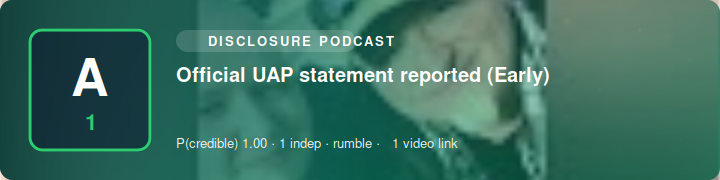
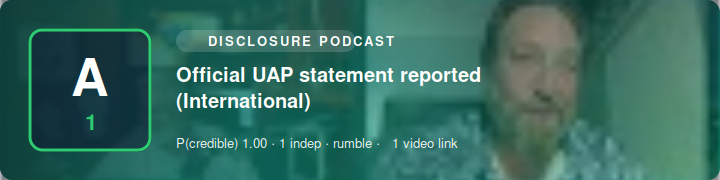
SITREP 2026-08-14 12:00 UTC

diff --git a/index.html b/index.html
@@ -1,1 +1,1 @@
-<!doctype html><meta charset=utf-8><title>Science Bob News — SITREP</title><style>body{font:16px/1.5 system-ui,sans-serif;max-width:760px;margin:2rem auto;padding:0 1rem;color:#111}h1{font-size:1.5rem}h2{margin-top:1.6rem;border-bottom:1px solid #ddd;padding-bottom:.2rem}ul{list-style:none;padding:0}li{margin:.9rem 0}.hl{font-weight:600}.meta{color:#555;font-size:.85rem}.src{font-size:.85rem}.vid{font-size:.85rem;margin-top:.15rem}.card{display:block;max-width:100%;height:auto;border-radius:8px;margin:.4rem 0 .5rem}.upd{background:#fde68a;padding:0 .3rem;border-radius:.2rem;font-size:.75rem}.sub{color:#777;font-size:.85rem}footer{color:#777;font-size:.8rem;margin-top:2rem;border-top:1px solid #ddd;padding-top:.6rem}</style><h1>🛸 Science Bob News</h1><div class="sub">UAP / UFO / USO SITREP · updated 2026-08-14 11:50 UTC · automated</div><h2>Corroborated</h2><ul><li><img class="card" src="https://n4hy.github.io/sciencebobnews-site/card_c_1.svg" alt="" width="720" height="180"><div class="hl">UAP report</div><div class="meta">reliability <b>A1</b> · P(credible)=1.0 · 2 independent source(s) · mastodon</div><div class="src"><a href="https://mastodon.online/@KilleansRow/117086761570315232">@KilleansRow@mastodon.online</a> · <a href="https://mastodon.linkerror.com/@photronicarts/117085058232230276">@photronicarts@mastodon.linkerror.com</a></div></li></ul><h2>Developing / unconfirmed</h2><ul><li><img class="card" src="https://n4hy.github.io/sciencebobnews-site/card_d_1.svg" alt="" width="720" height="180"><div class="hl">UAP report (Early)</div><div class="meta">reliability <b>A1</b> · P(credible)=1.0 · 1 independent source(s) · rumble</div><div class="src"><a href="https://www.youtube.com/watch?v=IyTeV6kko5A">@podcast</a></div><div class="vid">📹 <a href="https://www.youtube.com/watch?v=IyTeV6kko5A">video</a></div></li><li><img class="card" src="https://n4hy.github.io/sciencebobnews-site/card_d_2.svg" alt="" width="720" height="180"><div class="hl">UAP report (McMinnville)</div><div class="meta">reliability <b>A1</b> · P(credible)=1.0 · 1 independent source(s) · rumble</div><div class="src"><a href="https://www.youtube.com/watch?v=7OT6uJ0yzVY">@podcast</a></div><div class="vid">📹 <a href="https://www.youtube.com/watch?v=7OT6uJ0yzVY">video</a></div></li><li><img class="card" src="https://n4hy.github.io/sciencebobnews-site/card_d_3.svg" alt="" width="720" height="180"><div class="hl">UAP report (Australia)</div><div class="meta">reliability <b>A1</b> · P(credible)=1.0 · 1 independent source(s) · rumble</div><div class="src"><a href="https://www.youtube.com/watch?v=ZegQhxJrJGo">@podcast</a></div><div class="vid">📹 <a href="https://www.youtube.com/watch?v=ZegQhxJrJGo">video</a></div></li><li><img class="card" src="https://n4hy.github.io/sciencebobnews-site/card_d_4.svg" alt="" width="720" height="180"><div class="hl">Official UAP statement reported (Early)</div><div class="meta">reliability <b>A1</b> · P(credible)=1.0 · 1 independent source(s) · rumble</div><div class="src"><a href="https://www.youtube.com/watch?v=jkYp9peI3aI">@podcast</a></div><div class="vid">📹 <a href="https://www.youtube.com/watch?v=jkYp9peI3aI">video</a></div></li><li><img class="card" src="https://n4hy.github.io/sciencebobnews-site/card_d_5.svg" alt="" width="720" height="180"><div class="hl">Official UAP statement reported (UFO)</div><div class="meta">reliability <b>A1</b> · P(credible)=1.0 · 1 independent source(s) · rumble</div><div class="src"><a href="https://www.youtube.com/watch?v=YiNznVZ5ciY">@podcast</a></div><div class="vid">📹 <a href="https://www.youtube.com/watch?v=YiNznVZ5ciY">video</a></div></li></ul><footer><b>Powered by Science Bob News.</b> Free to use with credit (see LICENSE). Headlines are factual restatements in the engine's own words; click sources for originals. Single-origin reposts collapse to one source; prosaic candidates flagged where offered.</footer>
+<!doctype html><meta charset=utf-8><title>Science Bob News — SITREP</title><style>body{font:16px/1.5 system-ui,sans-serif;max-width:760px;margin:2rem auto;padding:0 1rem;color:#111}h1{font-size:1.5rem}h2{margin-top:1.6rem;border-bottom:1px solid #ddd;padding-bottom:.2rem}ul{list-style:none;padding:0}li{margin:.9rem 0}.hl{font-weight:600}.meta{color:#555;font-size:.85rem}.src{font-size:.85rem}.vid{font-size:.85rem;margin-top:.15rem}.card{display:block;max-width:100%;height:auto;border-radius:8px;margin:.4rem 0 .5rem}.upd{background:#fde68a;padding:0 .3rem;border-radius:.2rem;font-size:.75rem}.sub{color:#777;font-size:.85rem}footer{color:#777;font-size:.8rem;margin-top:2rem;border-top:1px solid #ddd;padding-top:.6rem}</style><h1>🛸 Science Bob News</h1><div class="sub">UAP / UFO / USO SITREP · updated 2026-08-14 12:00 UTC · automated</div><h2>Corroborated</h2><ul><li><img class="card" src="https://n4hy.github.io/sciencebobnews-site/card_c_1.svg" alt="" width="720" height="180"><div class="hl">UAP report</div><div class="meta">reliability <b>A1</b> · P(credible)=1.0 · 2 independent source(s) · mastodon</div><div class="src"><a href="https://mastodon.online/@KilleansRow/117086761570315232">@KilleansRow@mastodon.online</a> · <a href="https://mastodon.linkerror.com/@photronicarts/117085058232230276">@photronicarts@mastodon.linkerror.com</a></div></li></ul><h2>Developing / unconfirmed</h2><ul><li><img class="card" src="https://n4hy.github.io/sciencebobnews-site/card_d_1.svg" alt="" width="720" height="180"><div class="hl">UAP report (Early)</div><div class="meta">reliability <b>A1</b> · P(credible)=1.0 · 1 independent source(s) · rumble</div><div class="src"><a href="https://www.youtube.com/watch?v=IyTeV6kko5A">@podcast</a></div><div class="vid">📹 <a href="https://www.youtube.com/watch?v=IyTeV6kko5A">video</a></div></li><li><img class="card" src="https://n4hy.github.io/sciencebobnews-site/card_d_2.svg" alt="" width="720" height="180"><div class="hl">UAP report (McMinnville)</div><div class="meta">reliability <b>A1</b> · P(credible)=1.0 · 1 independent source(s) · rumble</div><div class="src"><a href="https://www.youtube.com/watch?v=7OT6uJ0yzVY">@podcast</a></div><div class="vid">📹 <a href="https://www.youtube.com/watch?v=7OT6uJ0yzVY">video</a></div></li><li><img class="card" src="https://n4hy.github.io/sciencebobnews-site/card_d_3.svg" alt="" width="720" height="180"><div class="hl">UAP report (Australia)</div><div class="meta">reliability <b>A1</b> · P(credible)=1.0 · 1 independent source(s) · rumble</div><div class="src"><a href="https://www.youtube.com/watch?v=ZegQhxJrJGo">@podcast</a></div><div class="vid">📹 <a href="https://www.youtube.com/watch?v=ZegQhxJrJGo">video</a></div></li><li><img class="card" src="https://n4hy.github.io/sciencebobnews-site/card_d_4.svg" alt="" width="720" height="180"><div class="hl">Official UAP statement reported (International)</div><div class="meta">reliability <b>A1</b> · P(credible)=1.0 · 1 independent source(s) · rumble</div><div class="src"><a href="https://www.youtube.com/watch?v=DD4iB7rkmew">@podcast</a></div><div class="vid">📹 <a href="https://www.youtube.com/watch?v=DD4iB7rkmew">video</a></div></li><li><img class="card" src="https://n4hy.github.io/sciencebobnews-site/card_d_5.svg" alt="" width="720" height="180"><div class="hl">Official UAP statement reported (Psychology)</div><div class="meta">reliability <b>A1</b> · P(credible)=1.0 · 1 independent source(s) · rumble</div><div class="src"><a href="https://www.youtube.com/watch?v=mne_PUxB5T8">@podcast</a></div><div class="vid">📹 <a href="https://www.youtube.com/watch?v=mne_PUxB5T8">video</a></div></li></ul><footer><b>Powered by Science Bob News.</b> Free to use with credit (see LICENSE). Headlines are factual restatements in the engine's own words; click sources for originals. Single-origin reposts collapse to one source; prosaic candidates flagged where offered.</footer>

diff --git a/sitrep.md b/sitrep.md
@@ -1,5 +1,5 @@
 # 🛸 Science Bob News — UAP / UFO / USO SITREP
-*Updated 2026-08-14 11:50 UTC · auto-generated · sources credited & linked · reliability ratings are automated, not editorial*
+*Updated 2026-08-14 12:00 UTC · auto-generated · sources credited & linked · reliability ratings are automated, not editorial*
 
 ## Corroborated
 
@@ -25,15 +25,15 @@
    [@podcast](https://www.youtube.com/watch?v=ZegQhxJrJGo)  
    📹 [video](https://www.youtube.com/watch?v=ZegQhxJrJGo)
 
-![Official UAP statement reported (Early)](https://n4hy.github.io/sciencebobnews-site/card_d_4.svg)
-4. Official UAP statement reported (Early) — reliability A1 · 1 source(s)  
-   [@podcast](https://www.youtube.com/watch?v=jkYp9peI3aI)  
-   📹 [video](https://www.youtube.com/watch?v=jkYp9peI3aI)
+![Official UAP statement reported (International)](https://n4hy.github.io/sciencebobnews-site/card_d_4.svg)
+4. Official UAP statement reported (International) — reliability A1 · 1 source(s)  
+   [@podcast](https://www.youtube.com/watch?v=DD4iB7rkmew)  
+   📹 [video](https://www.youtube.com/watch?v=DD4iB7rkmew)
 
-![Official UAP statement reported (UFO)](https://n4hy.github.io/sciencebobnews-site/card_d_5.svg)
-5. Official UAP statement reported (UFO) — reliability A1 · 1 source(s)  
-   [@podcast](https://www.youtube.com/watch?v=YiNznVZ5ciY)  
-   📹 [video](https://www.youtube.com/watch?v=YiNznVZ5ciY)
+![Official UAP statement reported (Psychology)](https://n4hy.github.io/sciencebobnews-site/card_d_5.svg)
+5. Official UAP statement reported (Psychology) — reliability A1 · 1 source(s)  
+   [@podcast](https://www.youtube.com/watch?v=mne_PUxB5T8)  
+   📹 [video](https://www.youtube.com/watch?v=mne_PUxB5T8)
 
 ---
 *Powered by Science Bob News. Free to use with credit (see LICENSE). Headlines are factual restatements in the engine's own words — click through to the linked sources for originals. Reposts of a single origin are collapsed to one source; candidate prosaic explanations are flagged where offered.*
